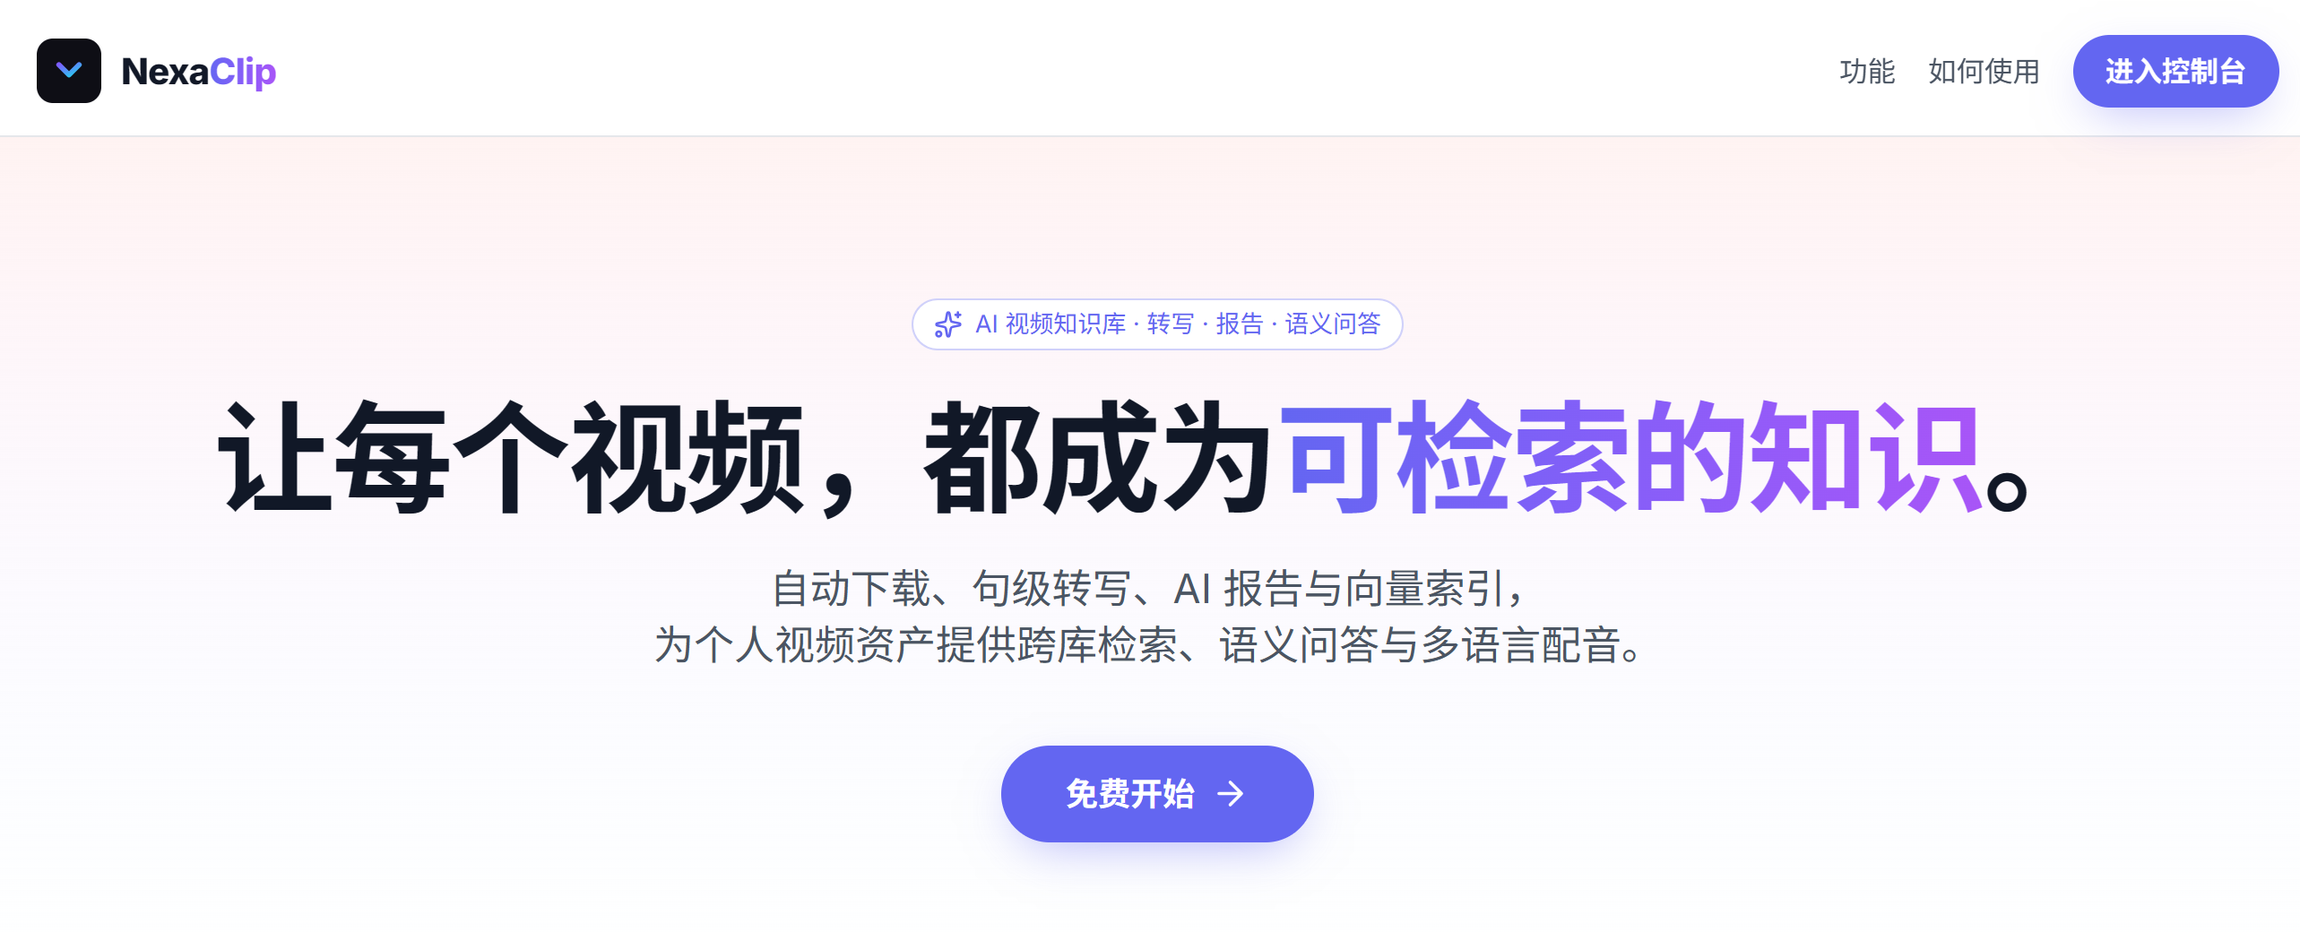
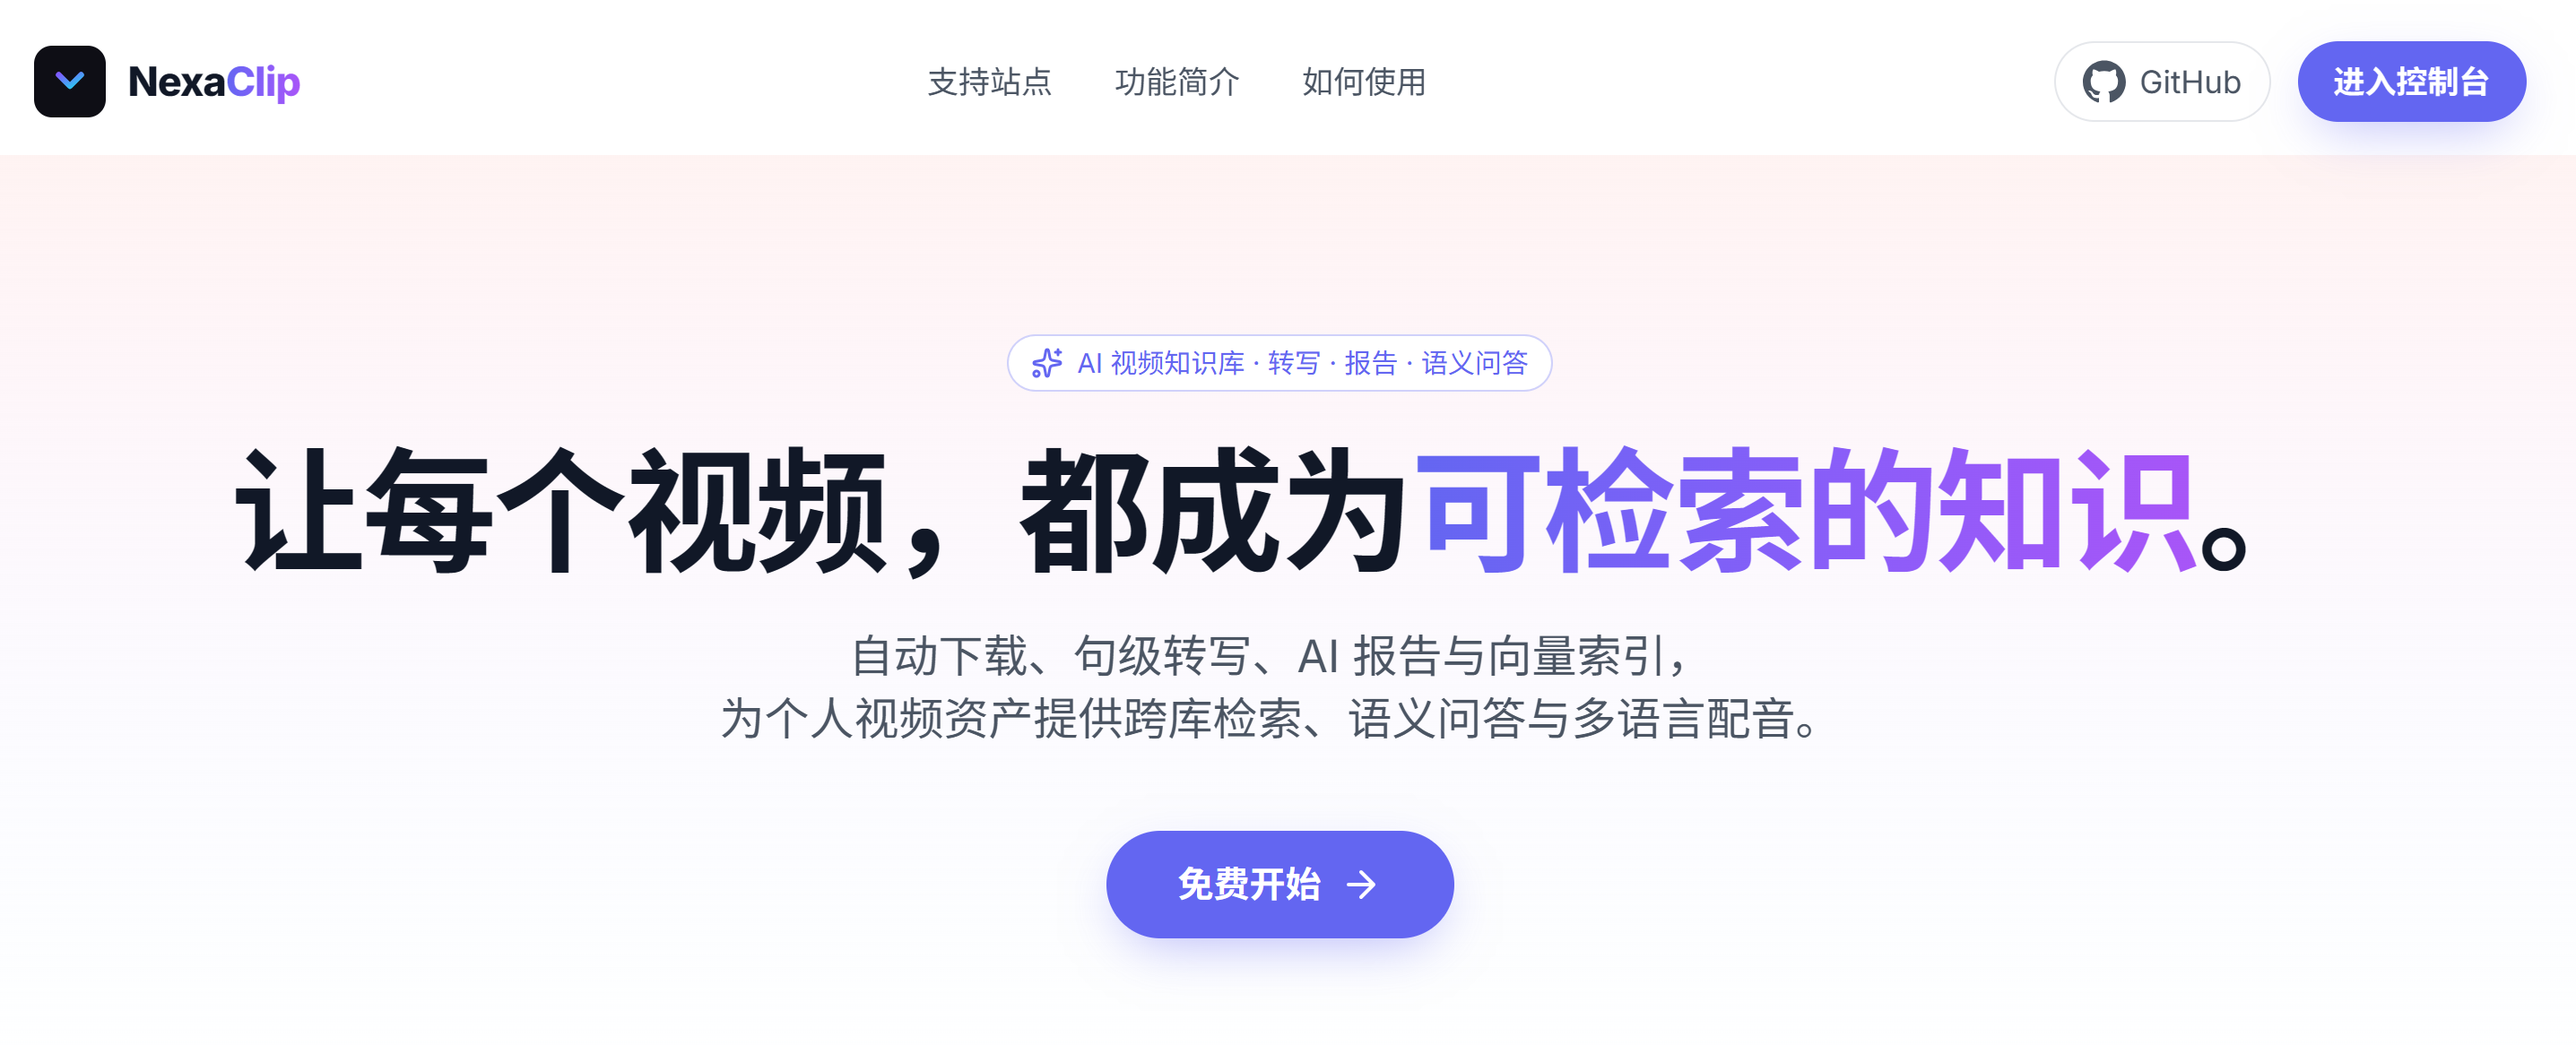
feat: update navbar

diff --git a/frontend/src/views/LandingView.vue b/frontend/src/views/LandingView.vue
@@ -2,6 +2,26 @@
 const router = useRouter()
 const auth = useAuthStore()
 
+const GITHUB_URL = 'https://github.com/hougeai/nexaclip'
+// 顺序与页面区块自上下一致：站点跑马灯 → 功能 → 如何使用
+const navLinks = [
+  { href: '#sites', label: '支持站点' },
+  { href: '#features', label: '功能简介' },
+  { href: '#how', label: '如何使用' }
+]
+
+// 滚动后导航收紧高度并显出边界与投影；未滚动时透明，与 Hero 的品牌渐变融为一体
+const scrolled = ref(false)
+const menuOpen = ref(false)
+function onScroll() {
+  scrolled.value = window.scrollY > 8
+}
+onMounted(() => {
+  onScroll()
+  window.addEventListener('scroll', onScroll, { passive: true })
+})
+onBeforeUnmount(() => window.removeEventListener('scroll', onScroll))
+
 const features = [
   {
     icon: 'i-lucide-link-2',
@@ -60,41 +80,92 @@ function start() {
 
 <template>
   <div class="min-h-full bg-white text-ink">
-    <!-- ===== 顶部导航 ===== -->
-    <header class="sticky top-0 z-40 bg-white/80 backdrop-blur-md border-b border-line">
-      <nav class="mx-auto max-w-6xl px-5 h-16 flex items-center justify-between">
-        <RouterLink to="/" class="flex items-center gap-2.5">
-          <img src="/favicon.svg" alt="NexaClip" class="w-8 h-8" />
+    <!-- ===== 顶部导航：左品牌 / 中锚点 / 右操作，滚动时收紧并显出边界 ===== -->
+    <header
+      class="sticky top-0 z-40 transition-all duration-300"
+      :class="
+        scrolled
+          ? 'bg-white/85 backdrop-blur-md border-b border-line shadow-[0_6px_24px_-16px_rgba(16,24,40,0.20)]'
+          : 'bg-white/50 backdrop-blur-sm border-b border-transparent'
+      "
+    >
+      <nav
+        class="mx-auto max-w-6xl px-5 flex items-center justify-between gap-4 transition-all duration-300"
+        :class="scrolled ? 'h-14' : 'h-16'"
+      >
+        <RouterLink to="/" class="flex items-center gap-2.5 shrink-0 group">
+          <img
+            src="/favicon.svg"
+            alt="NexaClip"
+            class="w-8 h-8 transition-transform duration-300 group-hover:scale-105"
+          />
           <span class="font-display text-lg font-800 tracking-tight"
             >Nexa<span class="text-grad">Clip</span></span
           >
         </RouterLink>
-        <div class="flex items-center gap-2 sm:gap-4">
+
+        <div class="hidden md:flex items-center gap-0.5">
+          <a v-for="l in navLinks" :key="l.href" :href="l.href" class="nav-link">{{ l.label }}</a>
+        </div>
+
+        <div class="flex items-center gap-2 sm:gap-3">
           <a
-            href="#features"
-            class="hidden sm:inline text-sm text-dim hover:text-ink transition-colors"
-            >功能</a
+            :href="GITHUB_URL"
+            target="_blank"
+            rel="noopener"
+            class="hidden sm:inline-flex items-center gap-1.5 h-9 px-3 rounded-full text-sm text-ink-soft border border-line bg-white hover:bg-surface-1 hover:border-ink/20 transition-colors"
+            title="源码仓库"
           >
-          <a href="#how" class="hidden sm:inline text-sm text-dim hover:text-ink transition-colors"
-            >如何使用</a
-          >
+            <span class="i-simple-icons-github text-base" />
+            <span class="hidden lg:inline">GitHub</span>
+          </a>
           <template v-if="auth.isLoggedIn">
-            <RouterLink :to="{ name: 'collect' }" class="btn-primary !h-9 !px-4 !text-sm"
-              >进入控制台</RouterLink
-            >
+            <RouterLink :to="{ name: 'collect' }" class="btn-primary !h-9 !px-4 !text-sm">进入控制台</RouterLink>
           </template>
           <template v-else>
             <RouterLink
               :to="{ name: 'login' }"
-              class="text-sm text-dim hover:text-ink transition-colors"
+              class="hidden sm:inline text-sm text-dim hover:text-ink transition-colors"
               >登录</RouterLink
             >
-            <RouterLink :to="{ name: 'register' }" class="btn-primary !h-9 !px-4 !text-sm"
-              >免费开始</RouterLink
-            >
+            <RouterLink :to="{ name: 'register' }" class="btn-primary !h-9 !px-4 !text-sm">免费开始</RouterLink>
           </template>
+          <button
+            class="md:hidden w-9 h-9 shrink-0 grid place-items-center rounded-full border border-line bg-white text-ink cursor-pointer transition-colors hover:bg-surface-1"
+            :aria-expanded="menuOpen"
+            aria-label="打开菜单"
+            @click="menuOpen = !menuOpen"
+          >
+            <span class="text-lg" :class="menuOpen ? 'i-lucide-x' : 'i-lucide-menu'" />
+          </button>
         </div>
       </nav>
+
+      <!-- 移动端抽屉：锚点 + GitHub + 登录 -->
+      <div v-if="menuOpen" class="md:hidden border-t border-line bg-white px-5 py-3">
+        <a
+          v-for="l in navLinks"
+          :key="l.href"
+          :href="l.href"
+          class="block py-2.5 text-sm text-ink-soft hover:text-brand transition-colors"
+          @click="menuOpen = false"
+          >{{ l.label }}</a
+        >
+        <a
+          :href="GITHUB_URL"
+          target="_blank"
+          rel="noopener"
+          class="block py-2.5 text-sm text-ink-soft"
+          >GitHub</a
+        >
+        <RouterLink
+          v-if="!auth.isLoggedIn"
+          :to="{ name: 'login' }"
+          class="block py-2.5 text-sm text-ink-soft"
+          @click="menuOpen = false"
+          >登录</RouterLink
+        >
+      </div>
     </header>
 
     <!-- ===== Hero ===== -->
@@ -184,7 +255,7 @@ function start() {
     </section>
 
     <!-- ===== 站点信任跑马灯（内容双份 + 位移 50% 无缝循环，mask 两端渐隐） ===== -->
-    <section class="border-y border-line bg-surface-1/60 overflow-hidden">
+    <section id="sites" class="border-y border-line bg-surface-1/60 overflow-hidden scroll-mt-20">
       <div class="marquee py-6">
         <div class="marquee-track">
           <span v-for="(s, i) in [...sites, ...sites]" :key="i" class="marquee-item">
@@ -301,10 +372,41 @@ function start() {
     transform: translateX(-50%);
   }
 }
+/* 导航锚点：hover 时品牌色下划线自左展开 */
+.nav-link {
+  position: relative;
+  padding: 0.45rem 0.8rem;
+  font-size: 0.875rem;
+  line-height: 1;
+  color: var(--c-ink-soft, #4b5563);
+  transition: color 0.2s ease;
+}
+.nav-link::after {
+  content: '';
+  position: absolute;
+  left: 0.8rem;
+  right: 0.8rem;
+  bottom: 0.15rem;
+  height: 2px;
+  border-radius: 2px;
+  background: var(--c-brand, #6366f1);
+  transform: scaleX(0);
+  transform-origin: left center;
+  transition: transform 0.25s ease;
+}
+.nav-link:hover {
+  color: var(--c-ink, #111827);
+}
+.nav-link:hover::after {
+  transform: scaleX(1);
+}
 /* 动效可达性：偏好减弱动效时静止 */
 @media (prefers-reduced-motion: reduce) {
   .marquee-track {
     animation: none;
+  }
+  .nav-link::after {
+    transition: none;
   }
 }
 </style>
